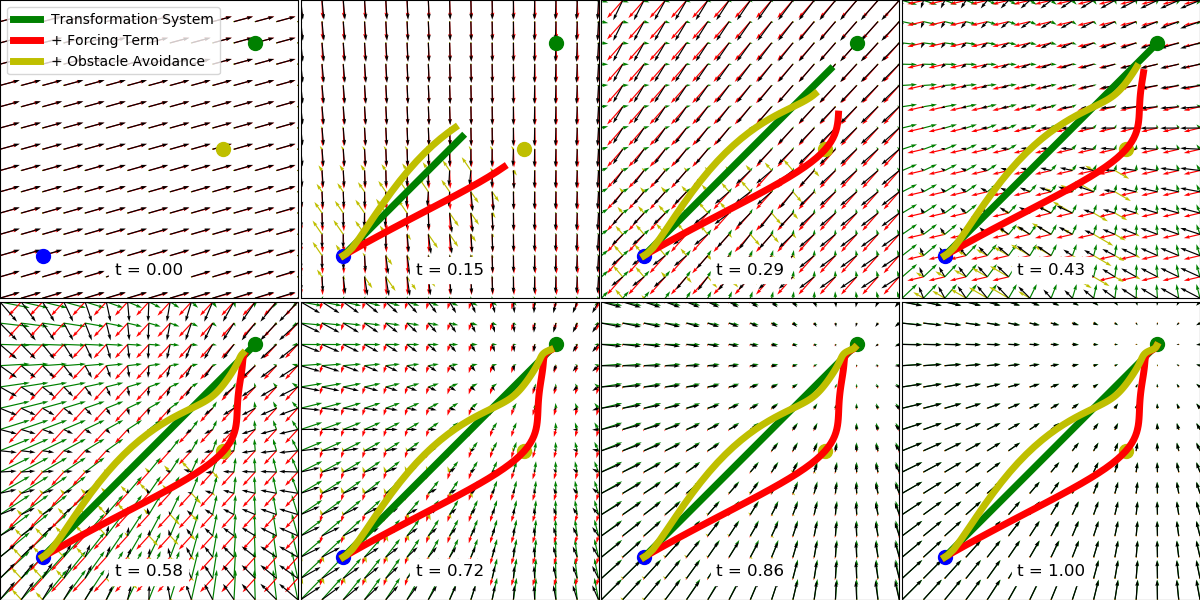
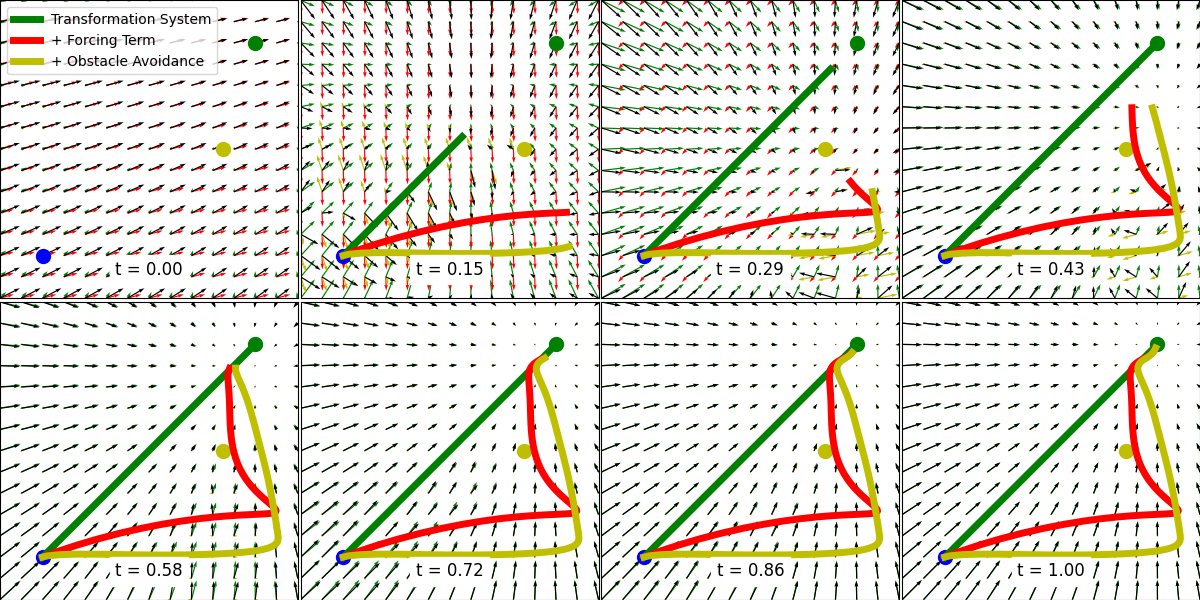
Fix potential field

diff --git a/movement_primitives/dmp_potential_field.py b/movement_primitives/dmp_potential_field.py
@@ -46,16 +46,13 @@ def potential_field_2d(dmp, x_range, y_range, n_ticks, obstacle=None):
                          np.linspace(y_range[0], y_range[1], n_ticks))
     Y = np.array((xx, yy)).transpose((1, 2, 0))
     Yd = np.empty_like(Y)
-    try:
-        Yd[:, :] = dmp.current_yd
-    except AttributeError:
-        Yd[:, :, :] = 0.0
+    Yd[:, :] = dmp.current_yd
 
     ts = dmp_transformation_system(
         Y, Yd, dmp.alpha_y, dmp.beta_y, dmp.goal_y, dmp.goal_yd, dmp.goal_ydd,
         dmp.execution_time)
     ft = np.empty_like(ts)
-    ft[:, :] = (dmp.alpha_y * dmp.forcing_term(dmp.t) / dmp.execution_time ** 2).ravel()
+    ft[:, :] = (dmp.forcing_term(dmp.t) / dmp.execution_time ** 2).ravel()
 
     if obstacle is None:
         ct = np.zeros_like(ts)
@@ -67,7 +64,7 @@ def potential_field_2d(dmp, x_range, y_range, n_ticks, obstacle=None):
 
 
 def plot_potential_field_2d(ax, dmp, x_range, y_range, n_ticks, obstacle=None,
-                            exaggerate_obstacle=5.0):
+                            exaggerate_arrows=25.0):
     """Plot 2D potential field of a DMP.
 
     We will indicate the influence of the transformation system at each
@@ -95,13 +92,16 @@ def plot_potential_field_2d(ax, dmp, x_range, y_range, n_ticks, obstacle=None,
     obstacle : array, shape (2,), optional (default: None)
         Obstacle position in the plane.
 
-    exaggerate_obstacle : float, optional (default: 5)
-        Multiply acceleration for obstacle avoidance by this factor.
+    exaggerate_arrows : float, optional (default: 25)
+        Multiply arrow sizes by this factor.
     """
     xx, yy, ft, ts, ct, acc = potential_field_2d(
         dmp, x_range, y_range, n_ticks, obstacle)
 
-    ct *= exaggerate_obstacle
+    ft *= exaggerate_arrows
+    ts *= exaggerate_arrows
+    ct *= exaggerate_arrows
+    acc *= exaggerate_arrows
 
     quiver_scale = np.abs(acc).max() * n_ticks
     ax.quiver(xx, yy, ts[:, :, 0], ts[:, :, 1], scale=quiver_scale, color="g")

diff --git a/test/test_dmp_potential_field.py b/test/test_dmp_potential_field.py
@@ -12,7 +12,7 @@ def test_potential_field_2d():
 
     dmp = DMP(n_dims=2, n_weights_per_dim=10, dt=0.01, execution_time=1.0)
     dmp.forcing_term.weights[:, :] = random_state.randn(
-        *dmp.forcing_term.weights.shape) * 200.0
+        *dmp.forcing_term.weights.shape) * 500.0
     dmp.configure(start_y=start_y, goal_y=goal_y)
     coupling_term = CouplingTermObstacleAvoidance2D(obstacle)
 
@@ -24,9 +24,6 @@ def test_potential_field_2d():
     velocity = np.zeros_like(start_y)
 
     while dmp.t <= dmp.execution_time:
-        position, velocity = dmp.step(
-            position, velocity, coupling_term=coupling_term)
-
         xx, yy, ft, ts, ct, acc = potential_field_2d(
             dmp, x_range, y_range, n_ticks, obstacle)
 
@@ -38,3 +35,17 @@ def test_potential_field_2d():
         assert_array_equal(acc.shape, (n_ticks, n_ticks, 2))
 
         assert_array_almost_equal(ft + ts + ct, acc)
+        xx, yy, ft, ts, ct, acc = potential_field_2d(
+            dmp, x_range, y_range, n_ticks)
+
+        assert_array_equal(xx.shape, (n_ticks, n_ticks))
+        assert_array_equal(yy.shape, (n_ticks, n_ticks))
+        assert_array_equal(ft.shape, (n_ticks, n_ticks, 2))
+        assert_array_equal(ts.shape, (n_ticks, n_ticks, 2))
+        assert_array_equal(ct.shape, (n_ticks, n_ticks, 2))
+        assert_array_equal(acc.shape, (n_ticks, n_ticks, 2))
+
+        assert_array_almost_equal(ft + ts + ct, acc)
+
+        position, velocity = dmp.step(
+            position, velocity, coupling_term=coupling_term)

diff --git a/examples/plot_dmp_potential_field.py b/examples/plot_dmp_potential_field.py
@@ -26,7 +26,7 @@ dmp.configure(start_y=start_y, goal_y=goal_y)
 
 dmp_ft = DMP(n_dims=2, n_weights_per_dim=10, dt=0.01, execution_time=1.0)
 dmp_ft.forcing_term.weights[:, :] = random_state.randn(
-    *dmp_ft.forcing_term.weights.shape) * 200.0
+    *dmp_ft.forcing_term.weights.shape) * 500.0
 dmp_ft.configure(start_y=start_y, goal_y=goal_y)
 
 dmp_ct = DMP(n_dims=2, n_weights_per_dim=10, dt=0.01, execution_time=1.0)
